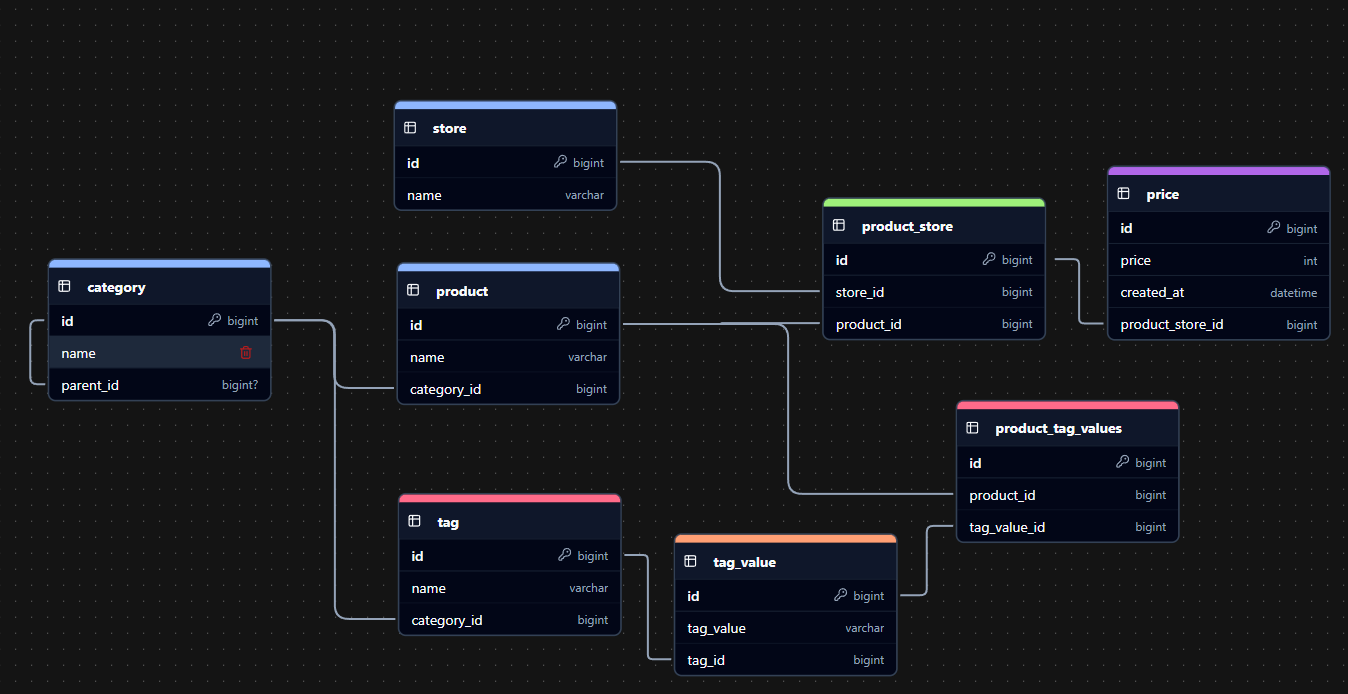
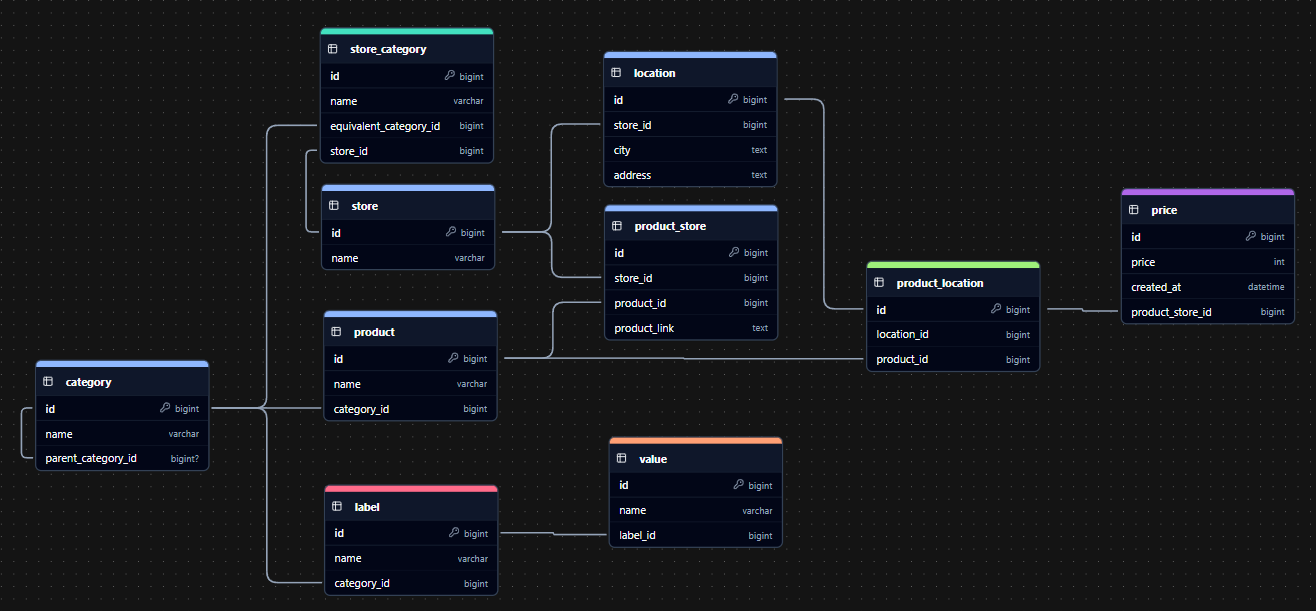
update readme file

diff --git a/Repository/ProductRepository.cs b/Repository/ProductRepository.cs
@@ -115,8 +115,8 @@ public class ProductRepository : IProductRepository
             .SqlQuery<Product>(
                 $@"SELECT *
                    FROM ""Products""
-                   WHERE similarity(""Name"", {searchTerm}) > 0.3
-                   ORDER BY similarity(""Name"", {searchTerm}) DESC
+                   WHERE GREATEST(similarity(""Name"", @searchTerm), similarity(""Slug"", @searchTerm)) > 0.3
+                   ORDER BY GREATEST(similarity(""Name"", @searchTerm), similarity(""Slug"", @searchTerm)) DESC
                    LIMIT {limit}
                    OFFSET {offset}"
             ).ToListAsync();
@@ -139,8 +139,8 @@ public class ProductRepository : IProductRepository
                        WHERE ps.""ProductId"" = p.""Id""
                    ) AS ""NumberOfStores""
                    FROM ""Products"" p
-                   WHERE similarity(p.""Name"", {searchTerm}) > 0.3
-                   ORDER BY similarity(p.""Name"", {searchTerm}) DESC
+                   WHERE similarity(p.""Slug"", {searchTerm}) > 0.1
+                   ORDER BY similarity(p.""Slug"", {searchTerm}) DESC
                    LIMIT {limit}
                    OFFSET {offset}"
             ).ToListAsync();

diff --git a/README.md b/README.md
@@ -1,15 +1,24 @@
 # PravaCijena API Documentation
 
 ## Description
+
 API for retrieving, organizing and collecting products and their prices.
 
 API consists of RESTful endpoints for internal use and slug based endpoints for public frontend because of readability.
-
 There are two automation endpoints that run scraping and analyze catalogues from store websites in database.
 
+Frontend like [PravaCijena Frontend](https://github.com/Ivo-Kovacevic/prava-cijena-api) can be used to communicate with
+this API and display data.
+
 ## Table of Contents
-- ### [API Endpoints](#api-endpoints)
-- #### [RESTful API Endpoints (ID-based)](#restful-api-endpoints-id-based)
+
+### API Overview
+
+- [API Endpoints](#api-endpoints)
+
+### RESTful API Endpoints
+
+- [RESTful API Endpoints (ID-based)](#restful-api-endpoints-id-based)
 - [Category Endpoints](#category-endpoints)
 - [Label Endpoints](#label-endpoints)
 - [Product Endpoints](#product-endpoints)
@@ -17,14 +26,20 @@ There are two automation endpoints that run scraping and analyze catalogues from
 - [ProductStore Endpoints](#productstore-endpoints)
 - [Price Endpoints](#price-endpoints)
 - [Value Endpoints](#value-endpoints)
-- #### [Slug Endpoints](#slug-endpoints)
+
+### Slug endpoints
+
+- [Slug Endpoints](#slug-endpoints)
 - [Category Slug Endpoints](#category-slug-endpoints)
 - [Label Slug Endpoints](#label-slug-endpoints)
 - [Product Slug Endpoints](#product-slug-endpoints)
 - [Store Slug Endpoints](#store-slug-endpoints)
-- #### [Automation Endpoints](#automation-endpoints)
-- ### [Database Structure](#database-structure)
-- ### [Starting locally](#starting-locally)
+- [Automation Endpoints](#automation-endpoints)
+- [Database Structure](#database-structure)
+
+### Guide
+
+- [Starting locally](#starting-locally)
 - [Prerequisites](#prerequisites)
 - [How to start](#how-to-start)
 
@@ -34,122 +49,111 @@ There are two automation endpoints that run scraping and analyze catalogues from
 
 #### Category Endpoints
 
-| Method | Endpoint | Description | Parameters
-|-----|-----|-----|-----
-| GET | `/api/categories` | Get all categories | None
-| GET | `/api/categories/{categoryId:guid}` | Get category by ID | `categoryId` (GUID)
-| POST | `/api/categories` | Create a new category | `CreateCategoryRequestDto` (body)
-| PATCH | `/api/categories/{categoryId:guid}` | Update a category | `categoryId` (GUID), `UpdateCategoryRequestDto` (body)
-| DELETE | `/api/categories/{categoryId:guid}` | Delete a category | `categoryId` (GUID)
-
+| Method | Endpoint                            | Description           | Parameters                                             
+|--------|-------------------------------------|-----------------------|--------------------------------------------------------
+| GET    | `/api/categories`                   | Get all categories    | None                                                   
+| GET    | `/api/categories/{categoryId:guid}` | Get category by ID    | `categoryId` (GUID)                                    
+| POST   | `/api/categories`                   | Create a new category | `CreateCategoryRequestDto` (body)                      
+| PATCH  | `/api/categories/{categoryId:guid}` | Update a category     | `categoryId` (GUID), `UpdateCategoryRequestDto` (body) 
+| DELETE | `/api/categories/{categoryId:guid}` | Delete a category     | `categoryId` (GUID)                                    
 
 #### Label Endpoints
 
-| Method | Endpoint | Description | Parameters
-|-----|-----|-----|-----
-| GET | `/api/categories/{categoryId:guid}/labels` | Get all labels for a category | `categoryId` (GUID)
-| GET | `/api/categories/{categoryId:guid}/labels/{labelId:guid}` | Get label by ID | `categoryId` (GUID), `labelId` (GUID)
-| POST | `/api/categories/{categoryId:guid}/labels` | Create a new label | `categoryId` (GUID), `CreateLabelRequestDto` (body)
-| PATCH | `/api/categories/{categoryId:guid}/labels/{labelId:guid}` | Update a label | `categoryId` (GUID), `labelId` (GUID), `UpdateLabelRequestDto` (body)
-| DELETE | `/api/categories/{categoryId:guid}/labels/{labelId:guid}` | Delete a label | `categoryId` (GUID), `labelId` (GUID)
-
+| Method | Endpoint                                                  | Description                   | Parameters                                                            
+|--------|-----------------------------------------------------------|-------------------------------|-----------------------------------------------------------------------
+| GET    | `/api/categories/{categoryId:guid}/labels`                | Get all labels for a category | `categoryId` (GUID)                                                   
+| GET    | `/api/categories/{categoryId:guid}/labels/{labelId:guid}` | Get label by ID               | `categoryId` (GUID), `labelId` (GUID)                                 
+| POST   | `/api/categories/{categoryId:guid}/labels`                | Create a new label            | `categoryId` (GUID), `CreateLabelRequestDto` (body)                   
+| PATCH  | `/api/categories/{categoryId:guid}/labels/{labelId:guid}` | Update a label                | `categoryId` (GUID), `labelId` (GUID), `UpdateLabelRequestDto` (body) 
+| DELETE | `/api/categories/{categoryId:guid}/labels/{labelId:guid}` | Delete a label                | `categoryId` (GUID), `labelId` (GUID)                                 
 
 #### Product Endpoints
 
-| Method | Endpoint | Description | Parameters
-|-----|-----|-----|-----
-| GET | `/api/categories/{categoryId:guid}/products` | Get all products for a category | `categoryId` (GUID), `QueryObject` (query)
-| GET | `/api/categories/{categoryId:guid}/products/{productId:guid}` | Get product by ID | `categoryId` (GUID), `productId` (GUID)
-| POST | `/api/categories/{categoryId:guid}/products` | Create a new product | `categoryId` (GUID), `CreateProductRequestDto` (body)
-| PATCH | `/api/categories/{categoryId:guid}/products/{productId:guid}` | Update a product | `categoryId` (GUID), `productId` (GUID), `UpdateProductRequestDto` (body)
-| DELETE | `/api/categories/{categoryId:guid}/products/{productId:guid}` | Delete a product | `categoryId` (GUID), `productId` (GUID)
-
+| Method | Endpoint                                                      | Description                     | Parameters                                                                
+|--------|---------------------------------------------------------------|---------------------------------|---------------------------------------------------------------------------
+| GET    | `/api/categories/{categoryId:guid}/products`                  | Get all products for a category | `categoryId` (GUID), `QueryObject` (query)                                
+| GET    | `/api/categories/{categoryId:guid}/products/{productId:guid}` | Get product by ID               | `categoryId` (GUID), `productId` (GUID)                                   
+| POST   | `/api/categories/{categoryId:guid}/products`                  | Create a new product            | `categoryId` (GUID), `CreateProductRequestDto` (body)                     
+| PATCH  | `/api/categories/{categoryId:guid}/products/{productId:guid}` | Update a product                | `categoryId` (GUID), `productId` (GUID), `UpdateProductRequestDto` (body) 
+| DELETE | `/api/categories/{categoryId:guid}/products/{productId:guid}` | Delete a product                | `categoryId` (GUID), `productId` (GUID)                                   
 
 #### Store Endpoints
 
-| Method | Endpoint | Description | Parameters
-|-----|-----|-----|-----
-| GET | `/api/stores` | Get all stores | None
-| GET | `/api/stores/{storeId:guid}` | Get store by ID | `storeId` (GUID)
-| POST | `/api/stores` | Create a new store | `CreateStoreRequestDto` (body)
-| PATCH | `/api/stores/{storeId:guid}` | Update a store | `storeId` (GUID), `UpdateStoreRequestDto` (body)
-| DELETE | `/api/stores/{storeId:guid}` | Delete a store | `storeId` (GUID)
-
+| Method | Endpoint                     | Description        | Parameters                                       
+|--------|------------------------------|--------------------|--------------------------------------------------
+| GET    | `/api/stores`                | Get all stores     | None                                             
+| GET    | `/api/stores/{storeId:guid}` | Get store by ID    | `storeId` (GUID)                                 
+| POST   | `/api/stores`                | Create a new store | `CreateStoreRequestDto` (body)                   
+| PATCH  | `/api/stores/{storeId:guid}` | Update a store     | `storeId` (GUID), `UpdateStoreRequestDto` (body) 
+| DELETE | `/api/stores/{storeId:guid}` | Delete a store     | `storeId` (GUID)                                 
 
 #### ProductStore Endpoints
 
-| Method | Endpoint | Description | Parameters
-|-----|-----|-----|-----
-| GET | `/api/product-stores/{productId:guid}` | Get all stores for a product | `productId` (GUID)
-| GET | `/api/product-stores/{productId:guid}/{storeId:guid}` | Get product-store relationship | `productId` (GUID), `storeId` (GUID)
-| POST | `/api/product-stores` | Create a new product-store relationship | `CreateProductStoreRequestDto` (body)
-| PATCH | `/api/product-stores/{productId:guid}/{storeId:guid}` | Update a product-store relationship | `productId` (GUID), `storeId` (GUID), `UpdateProductStoreRequestDto` (body)
-| DELETE | `/api/product-stores/{productId:guid}/{storeId:guid}` | Delete a product-store relationship | `productId` (GUID), `storeId` (GUID)
-
+| Method | Endpoint                                              | Description                             | Parameters                                                                  
+|--------|-------------------------------------------------------|-----------------------------------------|-----------------------------------------------------------------------------
+| GET    | `/api/product-stores/{productId:guid}`                | Get all stores for a product            | `productId` (GUID)                                                          
+| GET    | `/api/product-stores/{productId:guid}/{storeId:guid}` | Get product-store relationship          | `productId` (GUID), `storeId` (GUID)                                        
+| POST   | `/api/product-stores`                                 | Create a new product-store relationship | `CreateProductStoreRequestDto` (body)                                       
+| PATCH  | `/api/product-stores/{productId:guid}/{storeId:guid}` | Update a product-store relationship     | `productId` (GUID), `storeId` (GUID), `UpdateProductStoreRequestDto` (body) 
+| DELETE | `/api/product-stores/{productId:guid}/{storeId:guid}` | Delete a product-store relationship     | `productId` (GUID), `storeId` (GUID)                                        
 
 #### Price Endpoints
 
-| Method | Endpoint | Description | Parameters
-|-----|-----|-----|-----
-| GET | `/api/product-stores/{productStoreId:guid}/prices` | Get all prices for a product-store | `productStoreId` (GUID)
-| GET | `/api/product-stores/{productStoreId:guid}/prices/{priceId:guid}` | Get price by ID | `productStoreId` (GUID), `priceId` (GUID)
-| POST | `/api/product-stores/{productStoreId:guid}/prices` | Create a new price | `productStoreId` (GUID), `CreatePriceRequestDto` (body)
-
+| Method | Endpoint                                                          | Description                        | Parameters                                              
+|--------|-------------------------------------------------------------------|------------------------------------|---------------------------------------------------------
+| GET    | `/api/product-stores/{productStoreId:guid}/prices`                | Get all prices for a product-store | `productStoreId` (GUID)                                 
+| GET    | `/api/product-stores/{productStoreId:guid}/prices/{priceId:guid}` | Get price by ID                    | `productStoreId` (GUID), `priceId` (GUID)               
+| POST   | `/api/product-stores/{productStoreId:guid}/prices`                | Create a new price                 | `productStoreId` (GUID), `CreatePriceRequestDto` (body) 
 
 #### Value Endpoints
 
-| Method | Endpoint | Description | Parameters
-|-----|-----|-----|-----
-| GET | `/attributes/{attributeId:guid}/values` | Get all values for an attribute | `attributeId` (GUID)
-| GET | `/attributes/{attributeId:guid}/values/{valueId:guid}` | Get value by ID | `attributeId` (GUID), `valueId` (GUID)
-| POST | `/attributes/{attributeId:guid}/values` | Create a new value | `attributeId` (GUID), `CreateValueRequestDto` (body)
-| PATCH | `/attributes/{attributeId:guid}/values/{valueId:guid}` | Update a value | `attributeId` (GUID), `valueId` (GUID), `UpdateValueRequestDto` (body)
-| DELETE | `/attributes/{attributeId:guid}/values/{valueId:guid}` | Delete a value | `attributeId` (GUID), `valueId` (GUID)
-
+| Method | Endpoint                                               | Description                     | Parameters                                                             
+|--------|--------------------------------------------------------|---------------------------------|------------------------------------------------------------------------
+| GET    | `/attributes/{attributeId:guid}/values`                | Get all values for an attribute | `attributeId` (GUID)                                                   
+| GET    | `/attributes/{attributeId:guid}/values/{valueId:guid}` | Get value by ID                 | `attributeId` (GUID), `valueId` (GUID)                                 
+| POST   | `/attributes/{attributeId:guid}/values`                | Create a new value              | `attributeId` (GUID), `CreateValueRequestDto` (body)                   
+| PATCH  | `/attributes/{attributeId:guid}/values/{valueId:guid}` | Update a value                  | `attributeId` (GUID), `valueId` (GUID), `UpdateValueRequestDto` (body) 
+| DELETE | `/attributes/{attributeId:guid}/values/{valueId:guid}` | Delete a value                  | `attributeId` (GUID), `valueId` (GUID)                                 
 
 ### Slug Endpoints
 
 #### Category Slug Endpoints
 
-| Method | Endpoint | Description | Parameters
-|-----|-----|-----|-----
-| GET | `/api/categories/{categorySlug}` | Get category by slug with subcategories | `categorySlug` (string)
-
+| Method | Endpoint                         | Description                             | Parameters              
+|--------|----------------------------------|-----------------------------------------|-------------------------
+| GET    | `/api/categories/{categorySlug}` | Get category by slug with subcategories | `categorySlug` (string) 
 
 #### Label Slug Endpoints
 
-| Method | Endpoint | Description | Parameters
-|-----|-----|-----|-----
-| GET | `/api/categories/{categorySlug}/labels` | Get all labels for a category by slug | `categorySlug` (string)
-| GET | `/api/labels/{labelSlug}` | Get label by slug | `labelSlug` (string)
-
+| Method | Endpoint                                | Description                           | Parameters              
+|--------|-----------------------------------------|---------------------------------------|-------------------------
+| GET    | `/api/categories/{categorySlug}/labels` | Get all labels for a category by slug | `categorySlug` (string) 
+| GET    | `/api/labels/{labelSlug}`               | Get label by slug                     | `labelSlug` (string)    
 
 #### Product Slug Endpoints
 
-| Method | Endpoint | Description | Parameters
-|-----|-----|-----|-----
-| GET | `/api/categories/{categorySlug}/products` | Get all products for a category by slug | `categorySlug` (string), `QueryObject` (query)
-| GET | `/api/products/{productSlug}` | Get product by slug | `productSlug` (string)
-| GET | `/api/products/search` | Search for products | `searchTerm` (query)
-
+| Method | Endpoint                                  | Description                             | Parameters                                     
+|--------|-------------------------------------------|-----------------------------------------|------------------------------------------------
+| GET    | `/api/categories/{categorySlug}/products` | Get all products for a category by slug | `categorySlug` (string), `QueryObject` (query) 
+| GET    | `/api/products/{productSlug}`             | Get product by slug                     | `productSlug` (string)                         
+| GET    | `/api/products/search`                    | Search for products                     | `searchTerm` (query)                           
 
 #### Store Slug Endpoints
 
-| Method | Endpoint | Description | Parameters
-|-----|-----|-----|-----
-| GET | `/api/stores/{storeSlug}` | Get store by slug | `storeSlug` (string)
-
+| Method | Endpoint                  | Description       | Parameters           
+|--------|---------------------------|-------------------|----------------------
+| GET    | `/api/stores/{storeSlug}` | Get store by slug | `storeSlug` (string) 
 
 ### Automation Endpoints
 
-| Method | Endpoint | Description | Parameters
-|-----|-----|-----|-----
-| POST | `/api/automation/scrape` | Run the scraper | None
-| POST | `/api/automation/analyze-catalogue` | Analyze PDF catalogues | `pdfFile` (optional form file)
-
+| Method | Endpoint                            | Description            | Parameters                     
+|--------|-------------------------------------|------------------------|--------------------------------
+| POST   | `/api/automation/scrape`            | Run the scraper        | None                           
+| POST   | `/api/automation/analyze-catalogue` | Analyze PDF catalogues | `pdfFile` (optional form file) 
 
 ## Database Structure
-Database consists of 8 tables connected in following way shown by an image:
+
+Database consists of 10 tables connected in following way shown by an image:
 ![Database Structure](./Images/database.png "Database Structure")
 
 ## Starting locally
@@ -158,32 +162,38 @@ Database consists of 8 tables connected in following way shown by an image:
 
 Ensure you have the following installed:
 
--   .NET 9.0+
--   PostgreSQL
--   Git
+- .NET 9.0+
+- PostgreSQL
+- Git
 
 ### How to start
+
 1. Clone repository:
+
 ```
 git clone git@github.com:Ivo-Kovacevic/prava-cijena-api.git
 ```
 
 2. Navigate into directory:
+
 ```
 cd prava-cijena-api
 ```
 
 3. Install .NET dependencies:
+
 ```
 dotnet restore
 ```
 
 4. Create PostgreSQL database called `prava_cijena`:
+
 ```
 CREATE DATABASE prava_cijena;
 ```
 
 5. Setup `.env` file:
+
 ```
 DB_CONNECTION=USE_YOUR_DATABASE_CONNECTION_STRING_HERE
 GEMINI_API_KEY=USE_YOUR_DATABASE_GEMINI_API_KEY_HERE
@@ -194,15 +204,19 @@ GEMINI_API_KEY=USE_YOUR_DATABASE_GEMINI_API_KEY_HERE
 ```
 dotnet ef migrations add Init
 ```
+
 ```
 dotnet ef database update
 ```
 
 7. Start API with:
+
 ```
 dotnet run
 ```
+
 or
+
 ```
 dotnet run --launch-profile https
 ```
